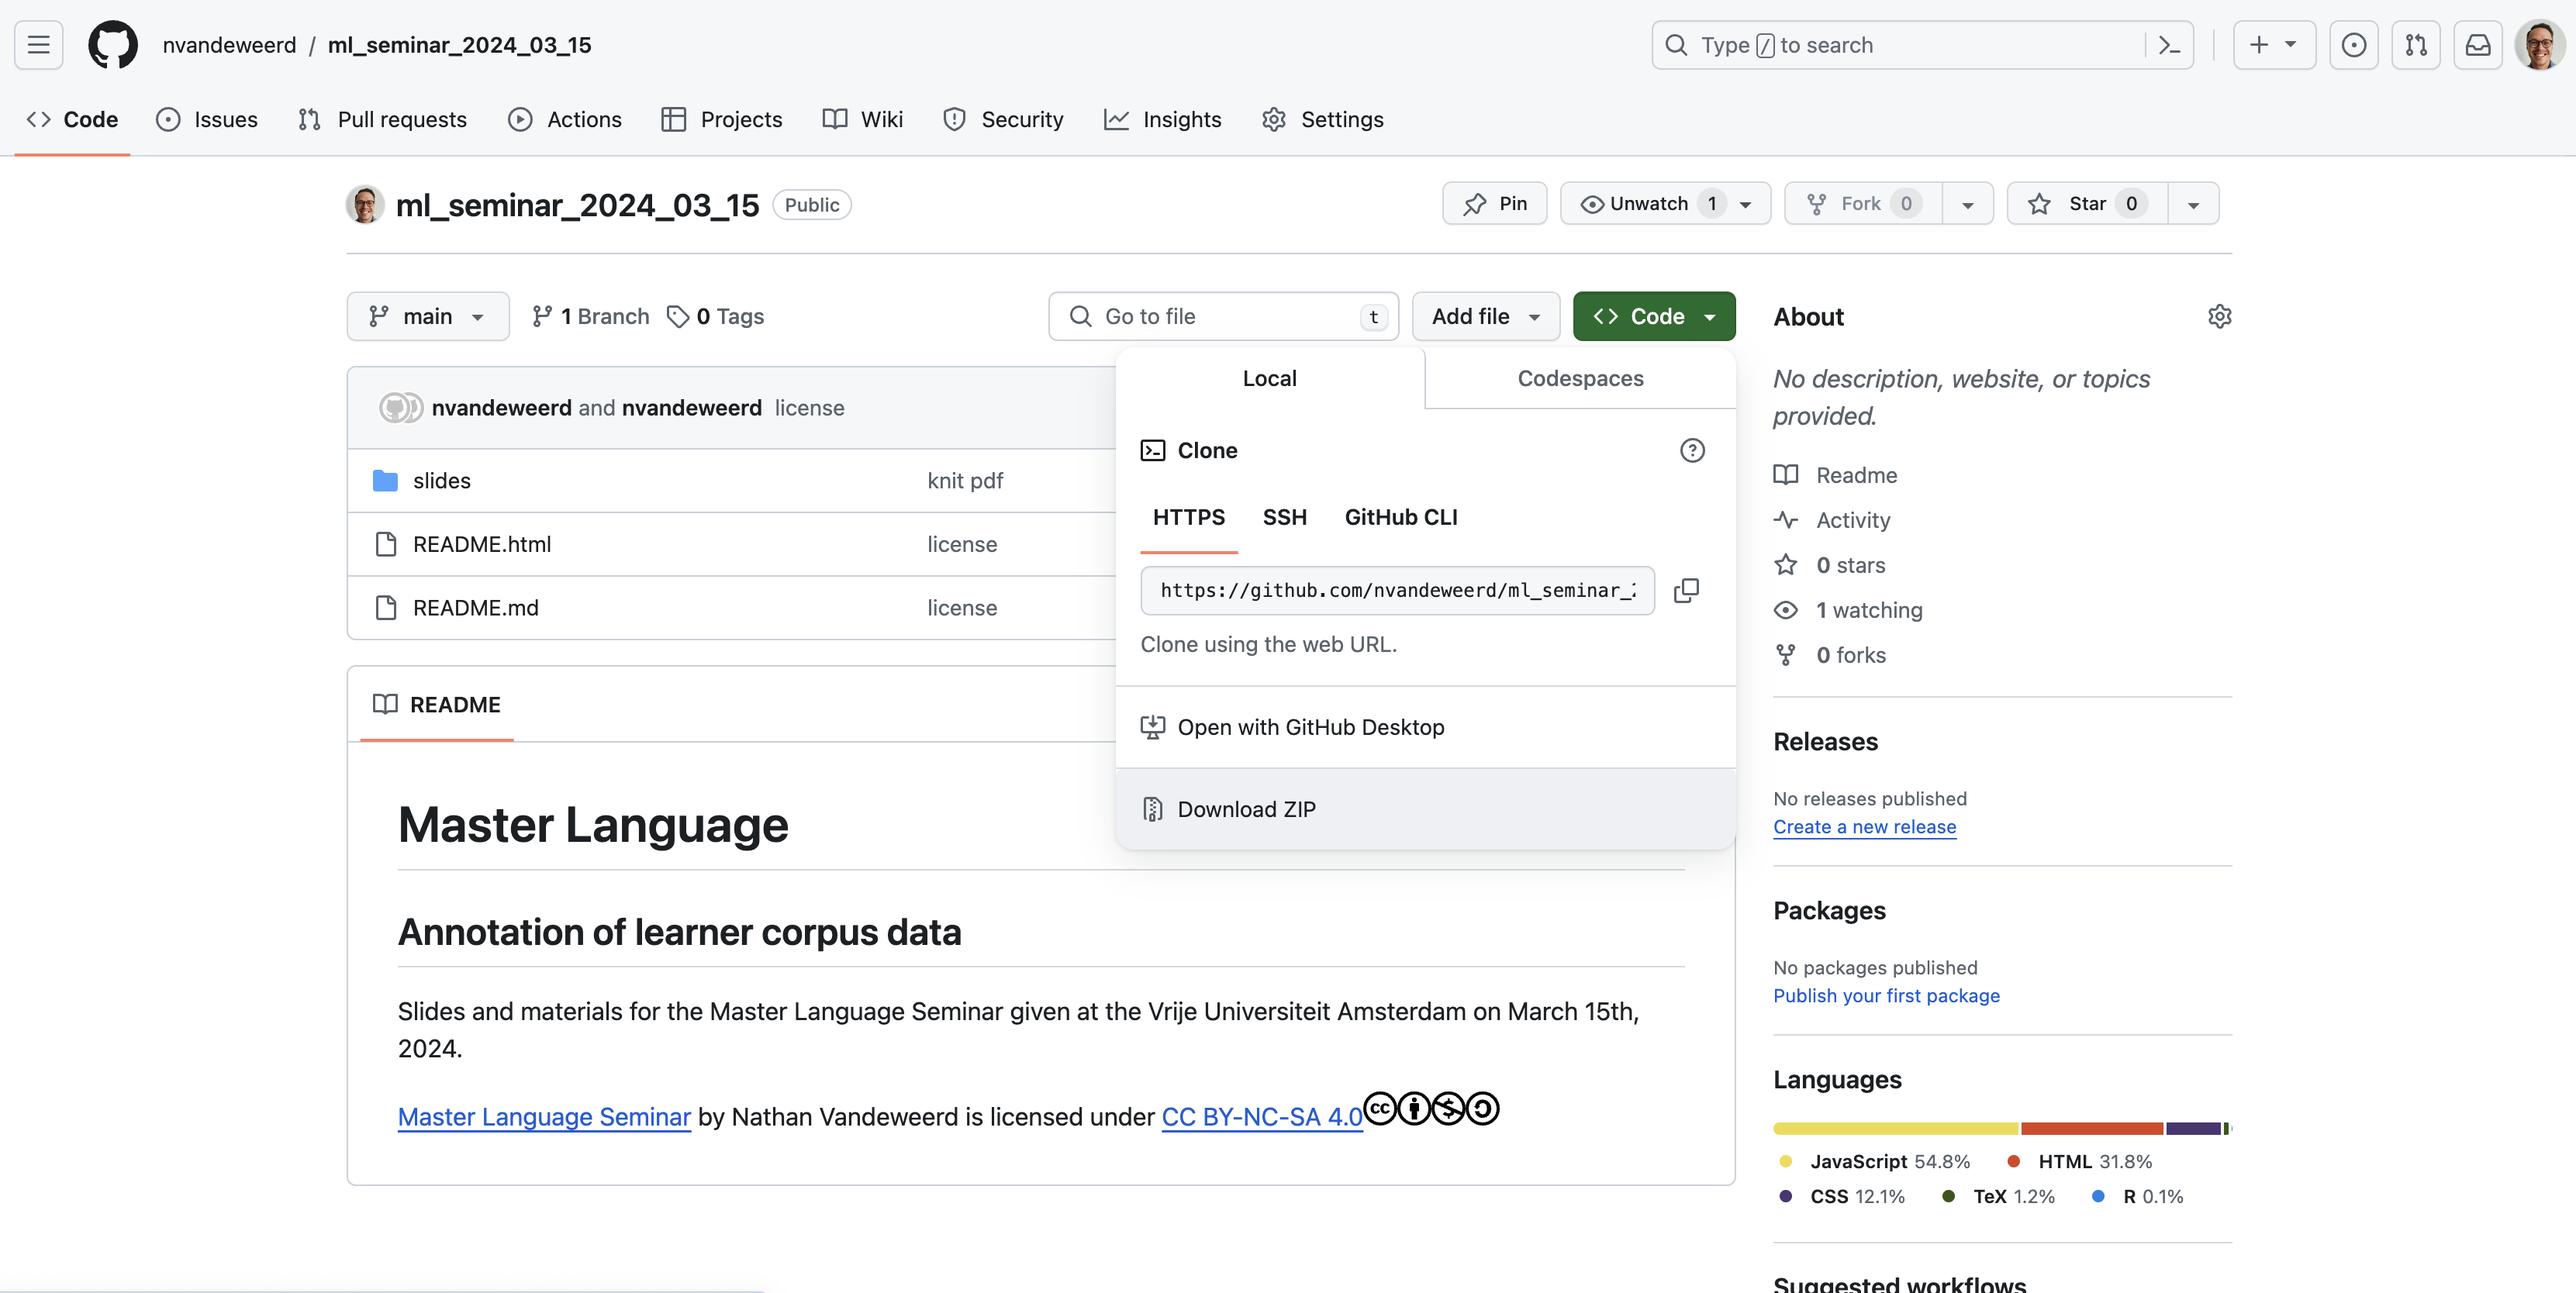
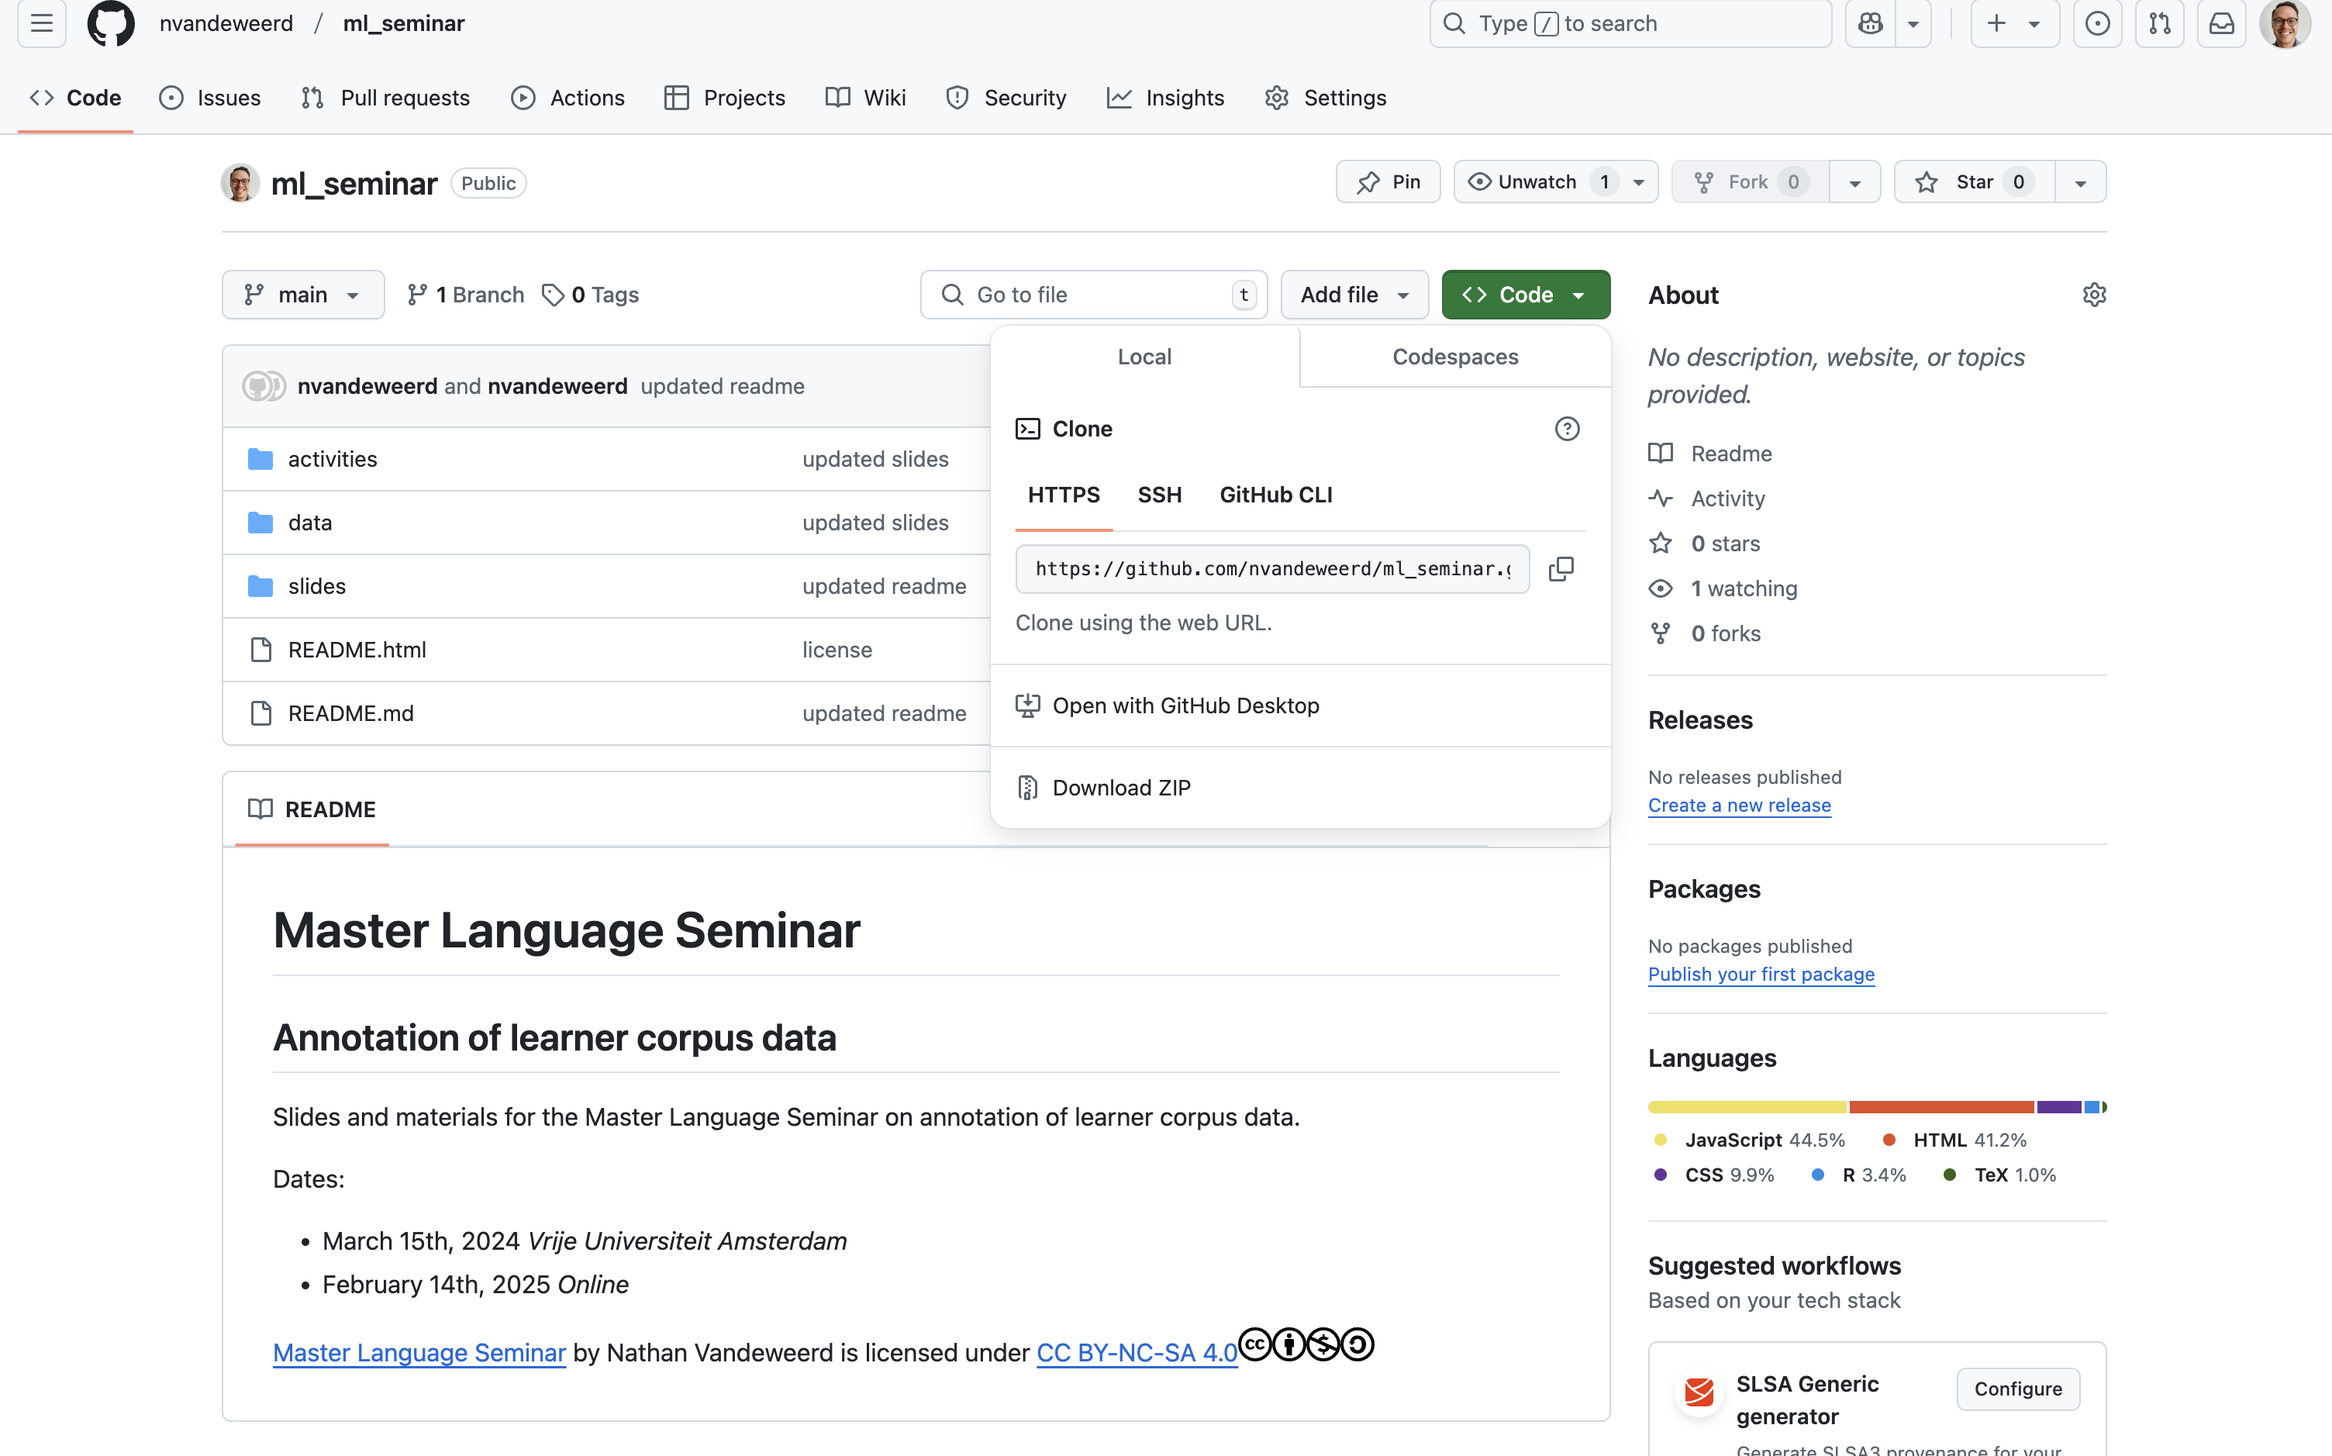
updated slides and activities

diff --git a/slides/ml_seminar_2025_02_14.html b/slides/ml_seminar_2025_02_14.html
@@ -7,7 +7,7 @@
     <script src="libs/header-attrs/header-attrs.js"></script>
     <link href="libs/tile-view/tile-view.css" rel="stylesheet" />
     <script src="libs/tile-view/tile-view.js"></script>
-    <script type="application/json" id="xaringanExtra-editable-docid">{"id":"b50cf11f7c3744f1b187606d649abd0c","expires":14}</script>
+    <script type="application/json" id="xaringanExtra-editable-docid">{"id":"x76f6894c3a7409fa0cde1737b7d8480","expires":14}</script>
     <script src="libs/himalaya/himalaya.js"></script>
     <script src="libs/js-cookie/js.cookie.js"></script>
     <link href="libs/editable/editable.css" rel="stylesheet" />
@@ -46,13 +46,13 @@ class: center, middle, inverse, title-slide
 
 
 <script>document.addEventListener('DOMContentLoaded',function(){new xeBanner(JSON.parse('{"exclude":["title-slide"],"position":"top"}'))})</script>
-<script>document.addEventListener('DOMContentLoaded',function(){new xeBanner(JSON.parse('{"center":"Last updated: 2025-02-12 11:48:48 | Slides available here: github.com/nvandeweerd/ml_seminar","exclude":["title-slide"],"position":"bottom"}'))})</script>
+<script>document.addEventListener('DOMContentLoaded',function(){new xeBanner(JSON.parse('{"center":"Last updated: 2025-02-12 13:45:30 | Slides available here: github.com/nvandeweerd/ml_seminar","exclude":["title-slide"],"position":"bottom"}'))})</script>
 
 
 ## Materials and sides available on [GitHub]()
 
 .pull-left[
-&lt;img src="figures/github_download.png" width="4429" style="display: block; margin: auto;" /&gt;
+&lt;img src="figures/github_download.png" width="4011" style="display: block; margin: auto;" /&gt;
 
 1. Click on .content-box-green[ `&lt; &gt; Code`].
 2. [Download ZIP](https://github.com/nvandeweerd/ml_seminar/archive/refs/heads/main.zip) to download all files.
@@ -117,7 +117,6 @@ class: header-slide
 ---
 
 &lt;iframe allowfullscreen frameborder="0" height="100%" mozallowfullscreen style="min-width: 500px; min-height: 355px" src="https://app.wooclap.com/events/TBIHYT/questions/65e5e027add92ffa913d95c6" width="100%"&gt;&lt;/iframe&gt;
-
 
 ---
 
@@ -203,7 +202,7 @@ Rooy, 2015: 80)]
 - .green[verb aspect]
 - .green[adverbs] of degree and negation
 - .green[verb] phrase ellipsis
-- formulaic language/phraseology 
+- .green[formulaic language/phraseology] 
 
 ]
 
@@ -235,7 +234,7 @@ Rooy, 2015: 80)]
 - .green[verb aspect]
 - .green[adverbs] of degree and negation
 - .green[verb] phrase ellipsis
-- formulaic language/phraseology 
+- .green[formulaic language/phraseology] 
 
 ]
 
@@ -731,6 +730,16 @@ Potential problems:
 ]
 ]
 
+---
+
+## Tokenization
+
+*The upside:* Most automatic tools include a tokenization step. 
+
+--
+
+- Usually 'rules'-based 
+- Important to check yourself how this will influence your data/analyses 
 
 ---
 
@@ -817,7 +826,7 @@ Rooy, 2015: 80-81)]
 
 
 
-**Verbs:** launged_VVD, find_VV0, is_VBZ, are_VBR, mension_VV1  
+**Verbs:** launged_VVD, find_VV0, is_VBZ, are_VBR  
 &lt;br&gt;
 
 **Nouns:** media_NN, fact_NN1, AIDS_NN1, county_NN1, awareness_NN1, people_NN, mension_NN1, campaigns_NN2, fact_NN1
@@ -837,7 +846,7 @@ Rooy, 2015: 80-81)]
 
 .center[
 
-.content-box-blue[&lt;svg viewBox="0 0 512 512" style="height:1em;position:relative;display:inline-block;top:.1em;" xmlns="http://www.w3.org/2000/svg"&gt;  &lt;path d="M256 8C119.043 8 8 119.083 8 256c0 136.997 111.043 248 248 248s248-111.003 248-248C504 119.083 392.957 8 256 8zm0 448c-110.532 0-200-89.431-200-200 0-110.495 89.472-200 200-200 110.491 0 200 89.471 200 200 0 110.53-89.431 200-200 200zm107.244-255.2c0 67.052-72.421 68.084-72.421 92.863V300c0 6.627-5.373 12-12 12h-45.647c-6.627 0-12-5.373-12-12v-8.659c0-35.745 27.1-50.034 47.579-61.516 17.561-9.845 28.324-16.541 28.324-29.579 0-17.246-21.999-28.693-39.784-28.693-23.189 0-33.894 10.977-48.942 29.969-4.057 5.12-11.46 6.071-16.666 2.124l-27.824-21.098c-5.107-3.872-6.251-11.066-2.644-16.363C184.846 131.491 214.94 112 261.794 112c49.071 0 101.45 38.304 101.45 88.8zM298 368c0 23.159-18.841 42-42 42s-42-18.841-42-42 18.841-42 42-42 42 18.841 42 42z"&gt;&lt;/path&gt;&lt;/svg&gt; What do you notice about the learner errors? (e.g., 'mension', 'is awareness campaigns')]
+.content-box-blue[&lt;svg viewBox="0 0 512 512" style="height:1em;position:relative;display:inline-block;top:.1em;" xmlns="http://www.w3.org/2000/svg"&gt;  &lt;path d="M256 8C119.043 8 8 119.083 8 256c0 136.997 111.043 248 248 248s248-111.003 248-248C504 119.083 392.957 8 256 8zm0 448c-110.532 0-200-89.431-200-200 0-110.495 89.472-200 200-200 110.491 0 200 89.471 200 200 0 110.53-89.431 200-200 200zm107.244-255.2c0 67.052-72.421 68.084-72.421 92.863V300c0 6.627-5.373 12-12 12h-45.647c-6.627 0-12-5.373-12-12v-8.659c0-35.745 27.1-50.034 47.579-61.516 17.561-9.845 28.324-16.541 28.324-29.579 0-17.246-21.999-28.693-39.784-28.693-23.189 0-33.894 10.977-48.942 29.969-4.057 5.12-11.46 6.071-16.666 2.124l-27.824-21.098c-5.107-3.872-6.251-11.066-2.644-16.363C184.846 131.491 214.94 112 261.794 112c49.071 0 101.45 38.304 101.45 88.8zM298 368c0 23.159-18.841 42-42 42s-42-18.841-42-42 18.841-42 42-42 42 18.841 42 42z"&gt;&lt;/path&gt;&lt;/svg&gt; What do you notice about the learner errors? (e.g., 'launged', 'mension', 'is awareness campaigns')]
 ]
 
 ---
@@ -1090,16 +1099,16 @@ class: header-slide
 
 ## Webtools
 
-.pull-left[
-
-.center[[CoreNLP](https://corenlp.run/)
-]
-
-&lt;img src="figures/corenlp-webpage.png" width="70%" style="display: block; margin: auto;" /&gt;
-
-]
-
 .pull-right[
+
+.center[[LINDAT UDPipe](https://lindat.mff.cuni.cz/services/udpipe/)
+]
+
+&lt;img src="figures/lindat_udpipe.png" width="70%" style="display: block; margin: auto;" /&gt;
+
+]
+
+.pull-left[
 
 .center[[Hugging Face spaCy visualizer](https://huggingface.co/spaces/spacy/pipeline-visualizer)]
 
